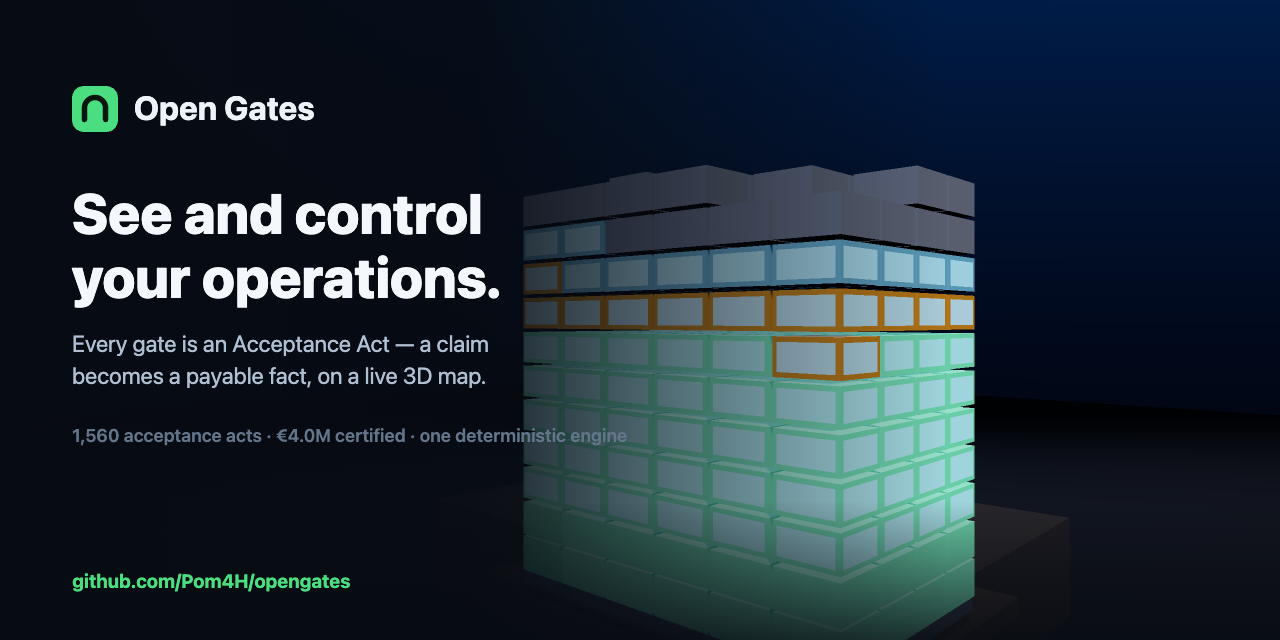
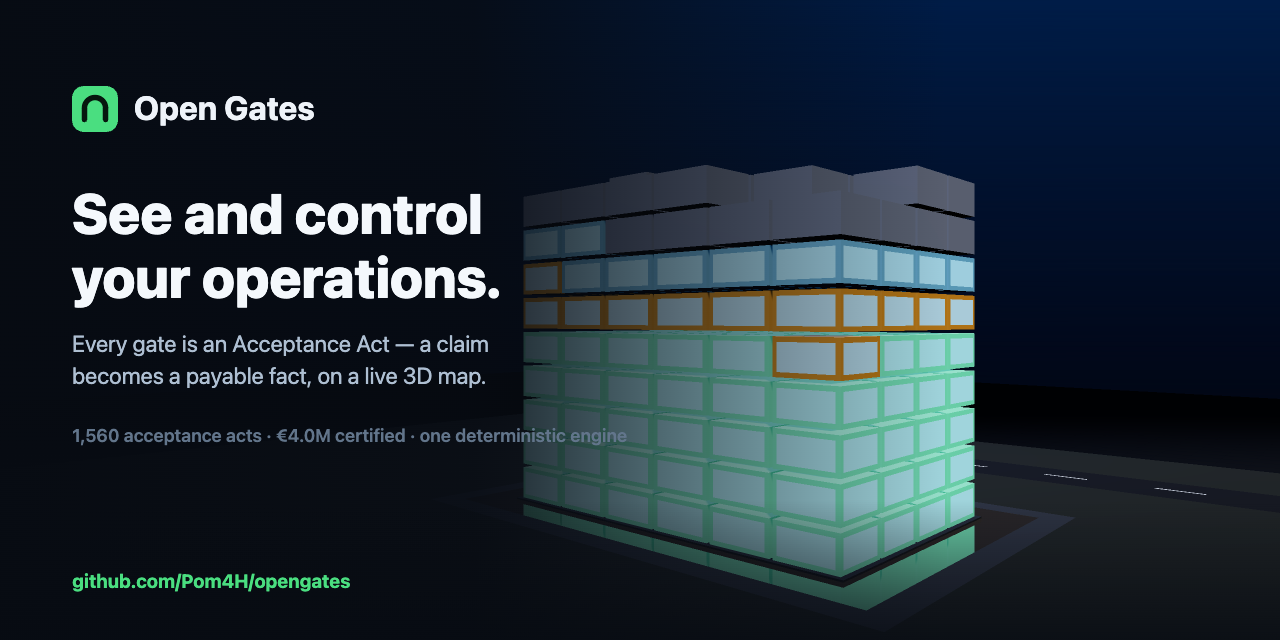
feat(viz): plant the building on a graded site — ground, pit, road
The tower read as floating because there was no solid ground at grade (only a
thin translucent square and a plane far down at the pit bottom). Add a real
construction site, shared by the control viewer and the social card:

- a flat earth apron at grade with a rectangular opening for the excavation pit,
- a concrete edge framing the open pit,
- a ground-floor slab the tower stands on (bridges basements → tower so there's
  no gap), which casts/receives shadow,
- a road with a dashed centre line + a driveway up to the site.

With the apron + slab receiving the building's shadow, the tower is clearly
planted in the ground instead of hanging in the air. Regenerated the social card.

Changed region(s): [[0.4062, 0.7812, 0.7812, 1.0], [0.75, 0.6875, 0.8438, 0.7188], [0.8125, 0.8125, 0.8438, 0.8438]]

diff --git a/viz/viewer/control/index.html b/viz/viewer/control/index.html
@@ -214,6 +214,30 @@
         const t = new THREE.CanvasTexture(c); t.colorSpace = THREE.SRGBColorSpace; return t;
       };
 
+      // A graded construction site: a flat earth apron at grade with an opening for
+      // the excavation pit, a concrete edge, a ground-floor slab the tower stands
+      // on, and a road + driveway — so the building plants into the ground and
+      // casts its shadow, instead of floating.
+      function buildSite(scene, shadows) {
+        const SITE_X = 76, SITE_Z = 58, PIT_X = 22, PIT_Z = 16, FX = 18.3, FZ = 12.3;
+        const matt = (color) => new THREE.MeshStandardMaterial({ color, roughness: 1, metalness: 0 });
+        const flat = (w, d, color, y) => { const m = new THREE.Mesh(new THREE.PlaneGeometry(w, d), matt(color)); m.rotation.x = -Math.PI / 2; m.position.y = y; m.receiveShadow = shadows; scene.add(m); return m; };
+        const ring = (color, y, ox, oz, ix, iz) => {
+          const s = new THREE.Shape(); s.moveTo(-ox, -oz); s.lineTo(ox, -oz); s.lineTo(ox, oz); s.lineTo(-ox, oz); s.closePath();
+          const h = new THREE.Path(); h.moveTo(-ix, -iz); h.lineTo(-ix, iz); h.lineTo(ix, iz); h.lineTo(ix, -iz); h.closePath(); s.holes.push(h);
+          const m = new THREE.Mesh(new THREE.ShapeGeometry(s), matt(color)); m.rotation.x = -Math.PI / 2; m.position.y = y; m.receiveShadow = shadows; scene.add(m); return m;
+        };
+        flat(580, 580, 0x070b11, -9.3); // deep ground = pit bottom
+        const grid = new THREE.GridHelper(330, 66, 0x1b2942, 0x0f1827); grid.position.y = -9.24; grid.material.transparent = true; grid.material.opacity = 0.18; scene.add(grid);
+        ring(0x232720, 0, SITE_X, SITE_Z, PIT_X, PIT_Z); // grade apron (earth) with the pit opening
+        ring(0x33373d, 0.012, PIT_X + 2.4, PIT_Z + 2.4, PIT_X, PIT_Z); // concrete edge framing the pit
+        const slab = new THREE.Mesh(new THREE.BoxGeometry(2 * FX, 0.5, 2 * FZ), matt(0x2a2f36)); // ground-floor slab the tower stands on
+        slab.position.set(0, -0.1, 0); slab.castShadow = shadows; slab.receiveShadow = shadows; scene.add(slab);
+        flat(2 * SITE_X, 9, 0x121419, 0.03).position.set(0, 0.03, -38); // road
+        flat(11, 22, 0x121419, 0.03).position.set(0, 0.03, -28); // driveway up to the site
+        for (let x = -SITE_X + 6; x < SITE_X; x += 11) { const d = new THREE.Mesh(new THREE.PlaneGeometry(4.5, 0.45), matt(0xb7c0cb)); d.rotation.x = -Math.PI / 2; d.position.set(x, 0.05, -38); scene.add(d); } // centre line
+      }
+
       const $ = (id) => document.getElementById(id);
       const fmt = (n) => "€" + (Math.abs(n) < 0.5 ? 0 : Math.round(n)).toLocaleString("ru-RU");
       const fmtK = (n) => (Math.abs(n) < 0.5 ? "€0" : Math.abs(n) >= 1e6 ? "€" + (n / 1e6).toFixed(2) + "M" : Math.abs(n) >= 1e3 ? "€" + (n / 1e3).toFixed(0) + "k" : fmt(n));
@@ -278,12 +302,7 @@
         scene.add(key);
         const rim = new THREE.DirectionalLight(0x6fa8ff, 0.8); rim.position.set(-46, 36, -54); scene.add(rim);
         const fillL = new THREE.DirectionalLight(0xaec6ff, 0.22); fillL.position.set(-22, 16, 34); scene.add(fillL);
-        const ground = new THREE.Mesh(new THREE.PlaneGeometry(460, 460), new THREE.MeshStandardMaterial({ color: 0x080e16, roughness: 1, metalness: 0 }));
-        ground.rotation.x = -Math.PI / 2; ground.position.y = -9.3; ground.receiveShadow = HIQ; scene.add(ground);
-        const grid = new THREE.GridHelper(280, 56, 0x1b2942, 0x0f1827);
-        grid.position.y = -9.24; grid.material.transparent = true; grid.material.opacity = 0.22; scene.add(grid);
-        const grade = new THREE.Mesh(new THREE.PlaneGeometry(160, 120), new THREE.MeshStandardMaterial({ color: 0x0e1726, roughness: 1, transparent: true, opacity: 0.55 }));
-        grade.rotation.x = -Math.PI / 2; grade.position.y = -0.06; grade.receiveShadow = HIQ; scene.add(grade);
+        buildSite(scene, HIQ);
         // post-processing: subtle bloom so the glazing and accepted zones glow
         let composer = null;
         if (HIQ) {

diff --git a/viz/social/index.html b/viz/social/index.html
@@ -32,6 +32,27 @@
         const t = new THREE.CanvasTexture(c); t.colorSpace = THREE.SRGBColorSpace; return t;
       };
 
+      // graded construction site (earth apron + open pit + concrete edge + ground
+      // slab + road) so the building plants into the ground instead of floating
+      function buildSite(scene, shadows) {
+        const SITE_X = 76, SITE_Z = 58, PIT_X = 22, PIT_Z = 16, FX = 18.3, FZ = 12.3;
+        const matt = (color) => new THREE.MeshStandardMaterial({ color, roughness: 1, metalness: 0 });
+        const flat = (w, d, color, y) => { const m = new THREE.Mesh(new THREE.PlaneGeometry(w, d), matt(color)); m.rotation.x = -Math.PI / 2; m.position.y = y; m.receiveShadow = shadows; scene.add(m); return m; };
+        const ring = (color, y, ox, oz, ix, iz) => {
+          const s = new THREE.Shape(); s.moveTo(-ox, -oz); s.lineTo(ox, -oz); s.lineTo(ox, oz); s.lineTo(-ox, oz); s.closePath();
+          const h = new THREE.Path(); h.moveTo(-ix, -iz); h.lineTo(-ix, iz); h.lineTo(ix, iz); h.lineTo(ix, -iz); h.closePath(); s.holes.push(h);
+          const m = new THREE.Mesh(new THREE.ShapeGeometry(s), matt(color)); m.rotation.x = -Math.PI / 2; m.position.y = y; m.receiveShadow = shadows; scene.add(m); return m;
+        };
+        flat(580, 580, 0x070b11, -9.3);
+        const grid = new THREE.GridHelper(330, 66, 0x1b2942, 0x0f1827); grid.position.y = -9.24; grid.material.transparent = true; grid.material.opacity = 0.18; scene.add(grid);
+        ring(0x232720, 0, SITE_X, SITE_Z, PIT_X, PIT_Z);
+        ring(0x33373d, 0.012, PIT_X + 2.4, PIT_Z + 2.4, PIT_X, PIT_Z);
+        const slab = new THREE.Mesh(new THREE.BoxGeometry(2 * FX, 0.5, 2 * FZ), matt(0x2a2f36)); slab.position.set(0, -0.1, 0); slab.castShadow = shadows; slab.receiveShadow = shadows; scene.add(slab);
+        flat(2 * SITE_X, 9, 0x121419, 0.03).position.set(0, 0.03, -38);
+        flat(11, 22, 0x121419, 0.03).position.set(0, 0.03, -28);
+        for (let x = -SITE_X + 6; x < SITE_X; x += 11) { const d = new THREE.Mesh(new THREE.PlaneGeometry(4.5, 0.45), matt(0xb7c0cb)); d.rotation.x = -Math.PI / 2; d.position.set(x, 0.05, -38); scene.add(d); }
+      }
+
       const W = 1280, H = 640, BG = 0x070b12;
       const hexNum = (h) => parseInt(h.slice(1), 16);
       const FONT = '-apple-system, BlinkMacSystemFont, "Segoe UI", Inter, Arial, sans-serif';
@@ -71,8 +92,7 @@
       scene.add(key);
       const rim = new THREE.DirectionalLight(0x6fa8ff, 0.85); rim.position.set(-44, 34, -52); scene.add(rim);
       const fill = new THREE.DirectionalLight(0xaec6ff, 0.25); fill.position.set(-22, 16, 34); scene.add(fill);
-      const ground = new THREE.Mesh(new THREE.PlaneGeometry(460, 460), new THREE.MeshStandardMaterial({ color: 0x080e16, roughness: 1 }));
-      ground.rotation.x = -Math.PI / 2; ground.position.y = -9.3; ground.receiveShadow = true; scene.add(ground);
+      buildSite(scene, true);
 
       const size = (b) => [b.max[0] - b.min[0], b.max[1] - b.min[1], b.max[2] - b.min[2]];
       const center = (b) => [(b.min[0] + b.max[0]) / 2, (b.min[1] + b.max[1]) / 2, (b.min[2] + b.max[2]) / 2];